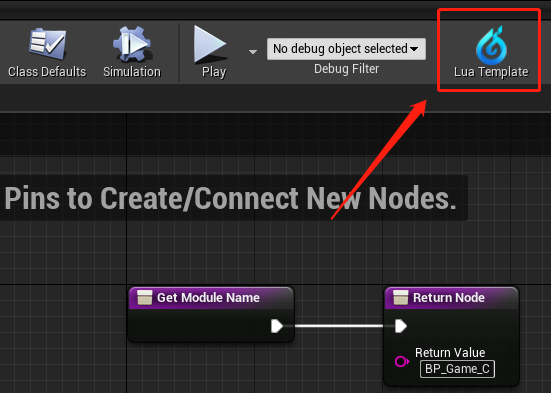
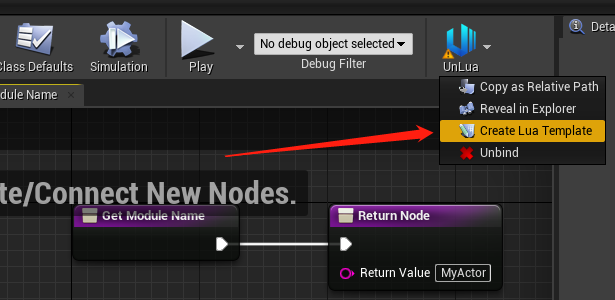
修改：调整UnLua的新手教程，以适应新版变化

diff --git a/Docs/CN/Quickstart_For_UE_Newbie.md b/Docs/CN/Quickstart_For_UE_Newbie.md
@@ -1,35 +1,30 @@
-#  快速入门示例
+# 快速入门示例
 
-本文站在UE新手视角，以GameModeBase为父类作为用例，说明如何通过Lua来编写/覆盖蓝图逻辑。其他类型同样可以依此类推。
+本文站在UE新手视角，以Actor为父类作为用例，说明如何通过Lua来编写/覆盖蓝图逻辑。其他类型同样可以依此类推。
 
-如果你是已经是UE的老手了，建议直接[开始UnLua之旅](../../README.md#开始UnLua之旅)
+如果你是已经是UE的老手了，建议直接 [开始UnLua之旅](../../README.md#开始UnLua之旅)
 
-##  1. 新建蓝图
-![新建蓝图](../Images/create_blueprint.png)
-  
-##  2. 添加接口 `UnLuaInterface`
-双击打开上一步新建好的蓝图，如下图依次操作
+## 1. 新建蓝图
+![新建蓝图1](../Images/create_new_actor_bp_1.png)
+![新建蓝图2](../Images/create_new_actor_bp_2.png)
 
-![添加接口](../Images/implement_UnLuaInterface.png)
- 
-##  3. 设置Lua文件路径
-双击打开左侧Interfaces下的 `GetModule` 函数，在右侧 `Return Value` 节点中填入Lua文件路径，如 `BP_MyGame_C`
+## 2. 绑定到Lua
+- 双击打开上一步新建好的蓝图，点击UnLua菜单栏中的“绑定”，默认会自动根据蓝图路径填充好Lua的模块路径（如图中①所示）。
+- 如果下次需要修改绑定的路径，可以找到 `GetModuleName` 函数并双击进行修改（如图中②所示）。
+- 完成后记得“编译”并“保存”（如图中③所示）。
 
-![设置路径](../Images/implement_GetModuleName.png)
+![绑定Lua1](../Images/bind_to_lua_1.png)
+![绑定Lua2](../Images/bind_to_lua_2.png)
 
-##  4. 生成Lua模版代码
-点击菜单栏中的 `Lua Template` 图标生成Lua模版文件
+## 3. 生成Lua模版代码
+点击UnLua菜单栏中的“生成Lua模板文件”，会在工程 `Content/Script` 目录下生成。
 
 ![生成模板代码](../Images/generate_lua_template.png)
 
-##  5. 编译并保存
-依次点击菜单栏中的 `编译（Compile）`、`保存（Save）`，确保我们的修改生效
+##  4. 准备就绪
 
-![编译保存](../Images/compile_and_save.png)
+![在文件管理器中显示](../Images/reveal_in_explorer.png)
 
-##  6. 准备就绪
-最后，用你喜欢的编辑器打开 `Content/Script/GameModes/BP_MyGameMode_C.lua` 开始编写你的代码吧。
+最后，用你喜欢的编辑器打开生成的文件，开始编写你的代码吧。
 
-**注意**：在内容浏览器（Content Browser）中是无法看到目录下的Lua脚本的，请使用系统的文件浏览器来查看。
-
-![在文件浏览器中查看](../Images/show_in_explorer.png)
+**注意**：在引擎的内容浏览器中是无法看到目录下的Lua脚本的，请使用系统的文件浏览器来查看，推荐将`Content/Script`加入到你的IDE工程中，这样就不需要每次都手动浏览了。

diff --git a/README.md b/README.md
@@ -34,9 +34,9 @@
 ## 开始UnLua之旅
 **注意**: 如果你是一位UE萌新，推荐使用更详细的[图文版教学](Docs/CN/Quickstart_For_UE_Newbie.md)继续以下步骤。
   1. 新建蓝图后打开，在UnLua工具栏中选择 `绑定`（可同时按住`Alt`键自动生成第2步的路径）
-  2. 在接口的 `GetModule` 函数中填入Lua文件路径，如 `GameModes.BP_MyGameMode_C`
+  2. 在接口的 `GetModule` 函数中填入Lua文件路径，如 `GameModes.BP_MyGameMode`
   3. 选择UnLua工具栏中的 `创建Lua模版文件`
-  4. 打开 `Content/Script/GameModes/BP_MyGameMode_C.lua` 编写你的代码
+  4. 打开 `Content/Script/GameModes/BP_MyGameMode.lua` 编写你的代码
 
 # 更多示例
   * [01_HelloWorld](Content/Script/Tutorials/01_HelloWorld.lua) 快速开始的例子
